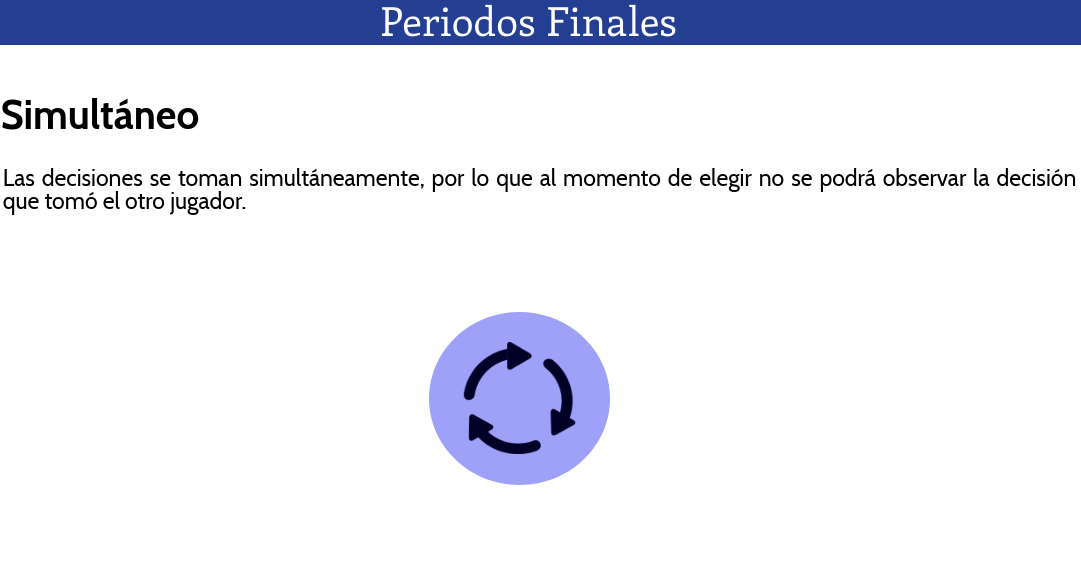
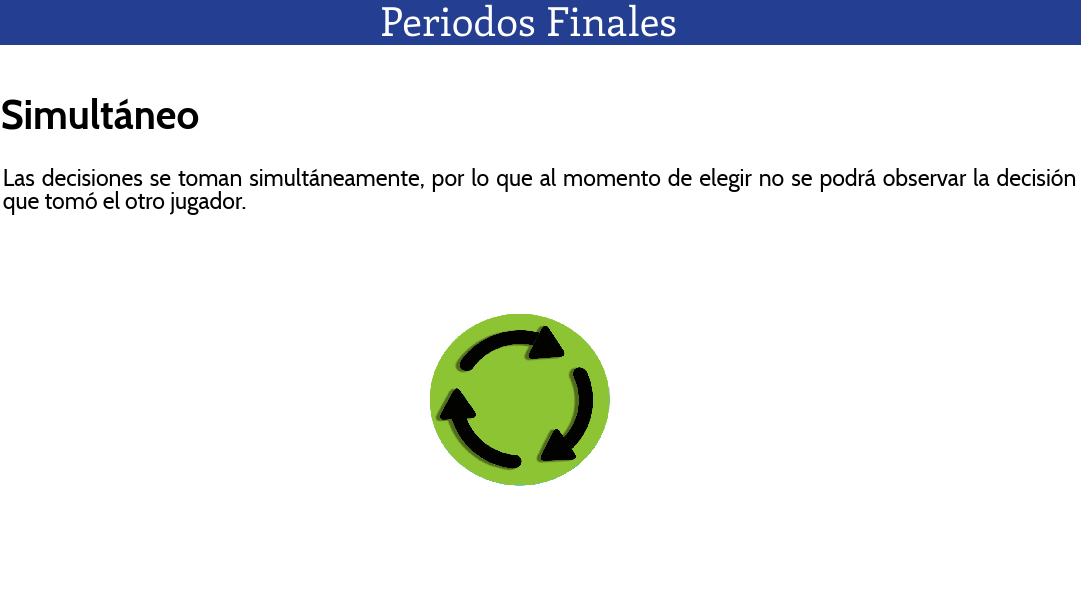
Conflicto v3.1.2
Actualizacion de iconos

diff --git a/conflicto/templates/conflicto/DecisionesVerdeSEC.html b/conflicto/templates/conflicto/DecisionesVerdeSEC.html
@@ -110,17 +110,17 @@
     <button class="boton" name="Eleccion" value="1">V1</button>
     <button class="boton" name="Eleccion" value="2">V2</button>
 
- {% if tratamiento %}
+    {% if tratamiento %}
         {% if numeroronda >= rondastotales %}
-            <img  class="imagen" src = "{% static 'conflicto/simultaneo_fondo.PNG' %}"/>
+            <img  class="imagen" src = "{% static 'conflicto/simultaneo_azul.png' %}"/>
         {% else %}
-            <img  class="imagen" src = "{% static 'conflicto/secuencial_fondo.PNG' %}"/>
+            <img  class="imagen" src = "{% static 'conflicto/secuencial_verde.png' %}"/>
         {% endif %}
     {% else %}
         {% if numeroronda >= rondastotales %}
-           <img  class="imagen" src = "{% static 'conflicto/secuencial_fondo.PNG' %}"/>
+           <img  class="imagen" src = "{% static 'conflicto/secuencial_azul.png' %}"/>
         {% else %}
-            <img class="imagen" src = "{% static 'conflicto/simultaneo_fondo.PNG' %}"/>
+            <img class="imagen" src = "{% static 'conflicto/simultaneo_verde.png' %}"/>
         {% endif %}
     {% endif %}
 

diff --git a/conflicto/templates/conflicto/DecisionesAzul.html b/conflicto/templates/conflicto/DecisionesAzul.html
@@ -99,17 +99,17 @@
 <button class="boton" name="Eleccion" value="2">A2</button>
 </br>
 
- {% if tratamiento %}
+    {% if tratamiento %}
         {% if numeroronda >= rondastotales %}
-            <img  class="imagen" src = "{% static 'conflicto/simultaneo_fondo.PNG' %}"/>
+            <img  class="imagen" src = "{% static 'conflicto/simultaneo_azul.png' %}"/>
         {% else %}
-            <img  class="imagen" src = "{% static 'conflicto/secuencial_fondo.PNG' %}"/>
+            <img  class="imagen" src = "{% static 'conflicto/secuencial_verde.png' %}"/>
         {% endif %}
     {% else %}
         {% if numeroronda >= rondastotales %}
-           <img  class="imagen" src = "{% static 'conflicto/secuencial_fondo.PNG' %}"/>
+           <img  class="imagen" src = "{% static 'conflicto/secuencial_azul.png' %}"/>
         {% else %}
-            <img class="imagen" src = "{% static 'conflicto/simultaneo_fondo.PNG' %}"/>
+            <img class="imagen" src = "{% static 'conflicto/simultaneo_verde.png' %}"/>
         {% endif %}
     {% endif %}
 

diff --git a/conflicto/templates/conflicto/DecisionesVerde.html b/conflicto/templates/conflicto/DecisionesVerde.html
@@ -99,17 +99,17 @@
 <button class="boton" name="Eleccion" value="2">V2</button>
 </br>
 
- {% if tratamiento %}
+    {% if tratamiento %}
         {% if numeroronda >= rondastotales %}
-            <img  class="imagen" src = "{% static 'conflicto/simultaneo_fondo.PNG' %}"/>
+            <img  class="imagen" src = "{% static 'conflicto/simultaneo_azul.png' %}"/>
         {% else %}
-            <img  class="imagen" src = "{% static 'conflicto/secuencial_fondo.PNG' %}"/>
+            <img  class="imagen" src = "{% static 'conflicto/secuencial_verde.png' %}"/>
         {% endif %}
     {% else %}
         {% if numeroronda >= rondastotales %}
-           <img  class="imagen" src = "{% static 'conflicto/secuencial_fondo.PNG' %}"/>
+           <img  class="imagen" src = "{% static 'conflicto/secuencial_azul.png' %}"/>
         {% else %}
-            <img class="imagen" src = "{% static 'conflicto/simultaneo_fondo.PNG' %}"/>
+            <img class="imagen" src = "{% static 'conflicto/simultaneo_verde.png' %}"/>
         {% endif %}
     {% endif %}
 

diff --git a/conflicto/templates/conflicto/GananciasAzul.html b/conflicto/templates/conflicto/GananciasAzul.html
@@ -115,15 +115,15 @@
 
     {% if tratamiento %}
         {% if numeroronda >= rondastotales %}
-            <img  class="imagen" src = "{% static 'conflicto/simultaneo_fondo.PNG' %}"/>
+            <img  class="imagen" src = "{% static 'conflicto/simultaneo_azul.png' %}"/>
         {% else %}
-            <img  class="imagen" src = "{% static 'conflicto/secuencial_fondo.PNG' %}"/>
+            <img  class="imagen" src = "{% static 'conflicto/secuencial_verde.png' %}"/>
         {% endif %}
     {% else %}
         {% if numeroronda >= rondastotales %}
-           <img  class="imagen" src = "{% static 'conflicto/secuencial_fondo.PNG' %}"/>
+           <img  class="imagen" src = "{% static 'conflicto/secuencial_azul.png' %}"/>
         {% else %}
-            <img class="imagen" src = "{% static 'conflicto/simultaneo_fondo.PNG' %}"/>
+            <img class="imagen" src = "{% static 'conflicto/simultaneo_verde.png' %}"/>
         {% endif %}
     {% endif %}
 

diff --git a/conflicto/templates/conflicto/GananciasVerde.html b/conflicto/templates/conflicto/GananciasVerde.html
@@ -115,15 +115,15 @@
 
     {% if tratamiento %}
         {% if numeroronda >= rondastotales %}
-            <img  class="imagen" src = "{% static 'conflicto/simultaneo_fondo.PNG' %}"/>
+            <img  class="imagen" src = "{% static 'conflicto/simultaneo_azul.png' %}"/>
         {% else %}
-            <img  class="imagen" src = "{% static 'conflicto/secuencial_fondo.PNG' %}"/>
+            <img  class="imagen" src = "{% static 'conflicto/secuencial_verde.png' %}"/>
         {% endif %}
     {% else %}
         {% if numeroronda >= rondastotales %}
-           <img  class="imagen" src = "{% static 'conflicto/secuencial_fondo.PNG' %}"/>
+           <img  class="imagen" src = "{% static 'conflicto/secuencial_azul.png' %}"/>
         {% else %}
-            <img class="imagen" src = "{% static 'conflicto/simultaneo_fondo.PNG' %}"/>
+            <img class="imagen" src = "{% static 'conflicto/simultaneo_verde.png' %}"/>
         {% endif %}
     {% endif %}
 

diff --git a/conflicto/templates/conflicto/presentacion.html b/conflicto/templates/conflicto/presentacion.html
@@ -29,7 +29,7 @@
       }
 </style>
 
-<img  src = "{% static 'conflicto/presentacion.png' %}"/>
+<img  src = "{% static 'conflicto/presentacion_c2x2.png' %}"/>
 
     <p></p>
 
